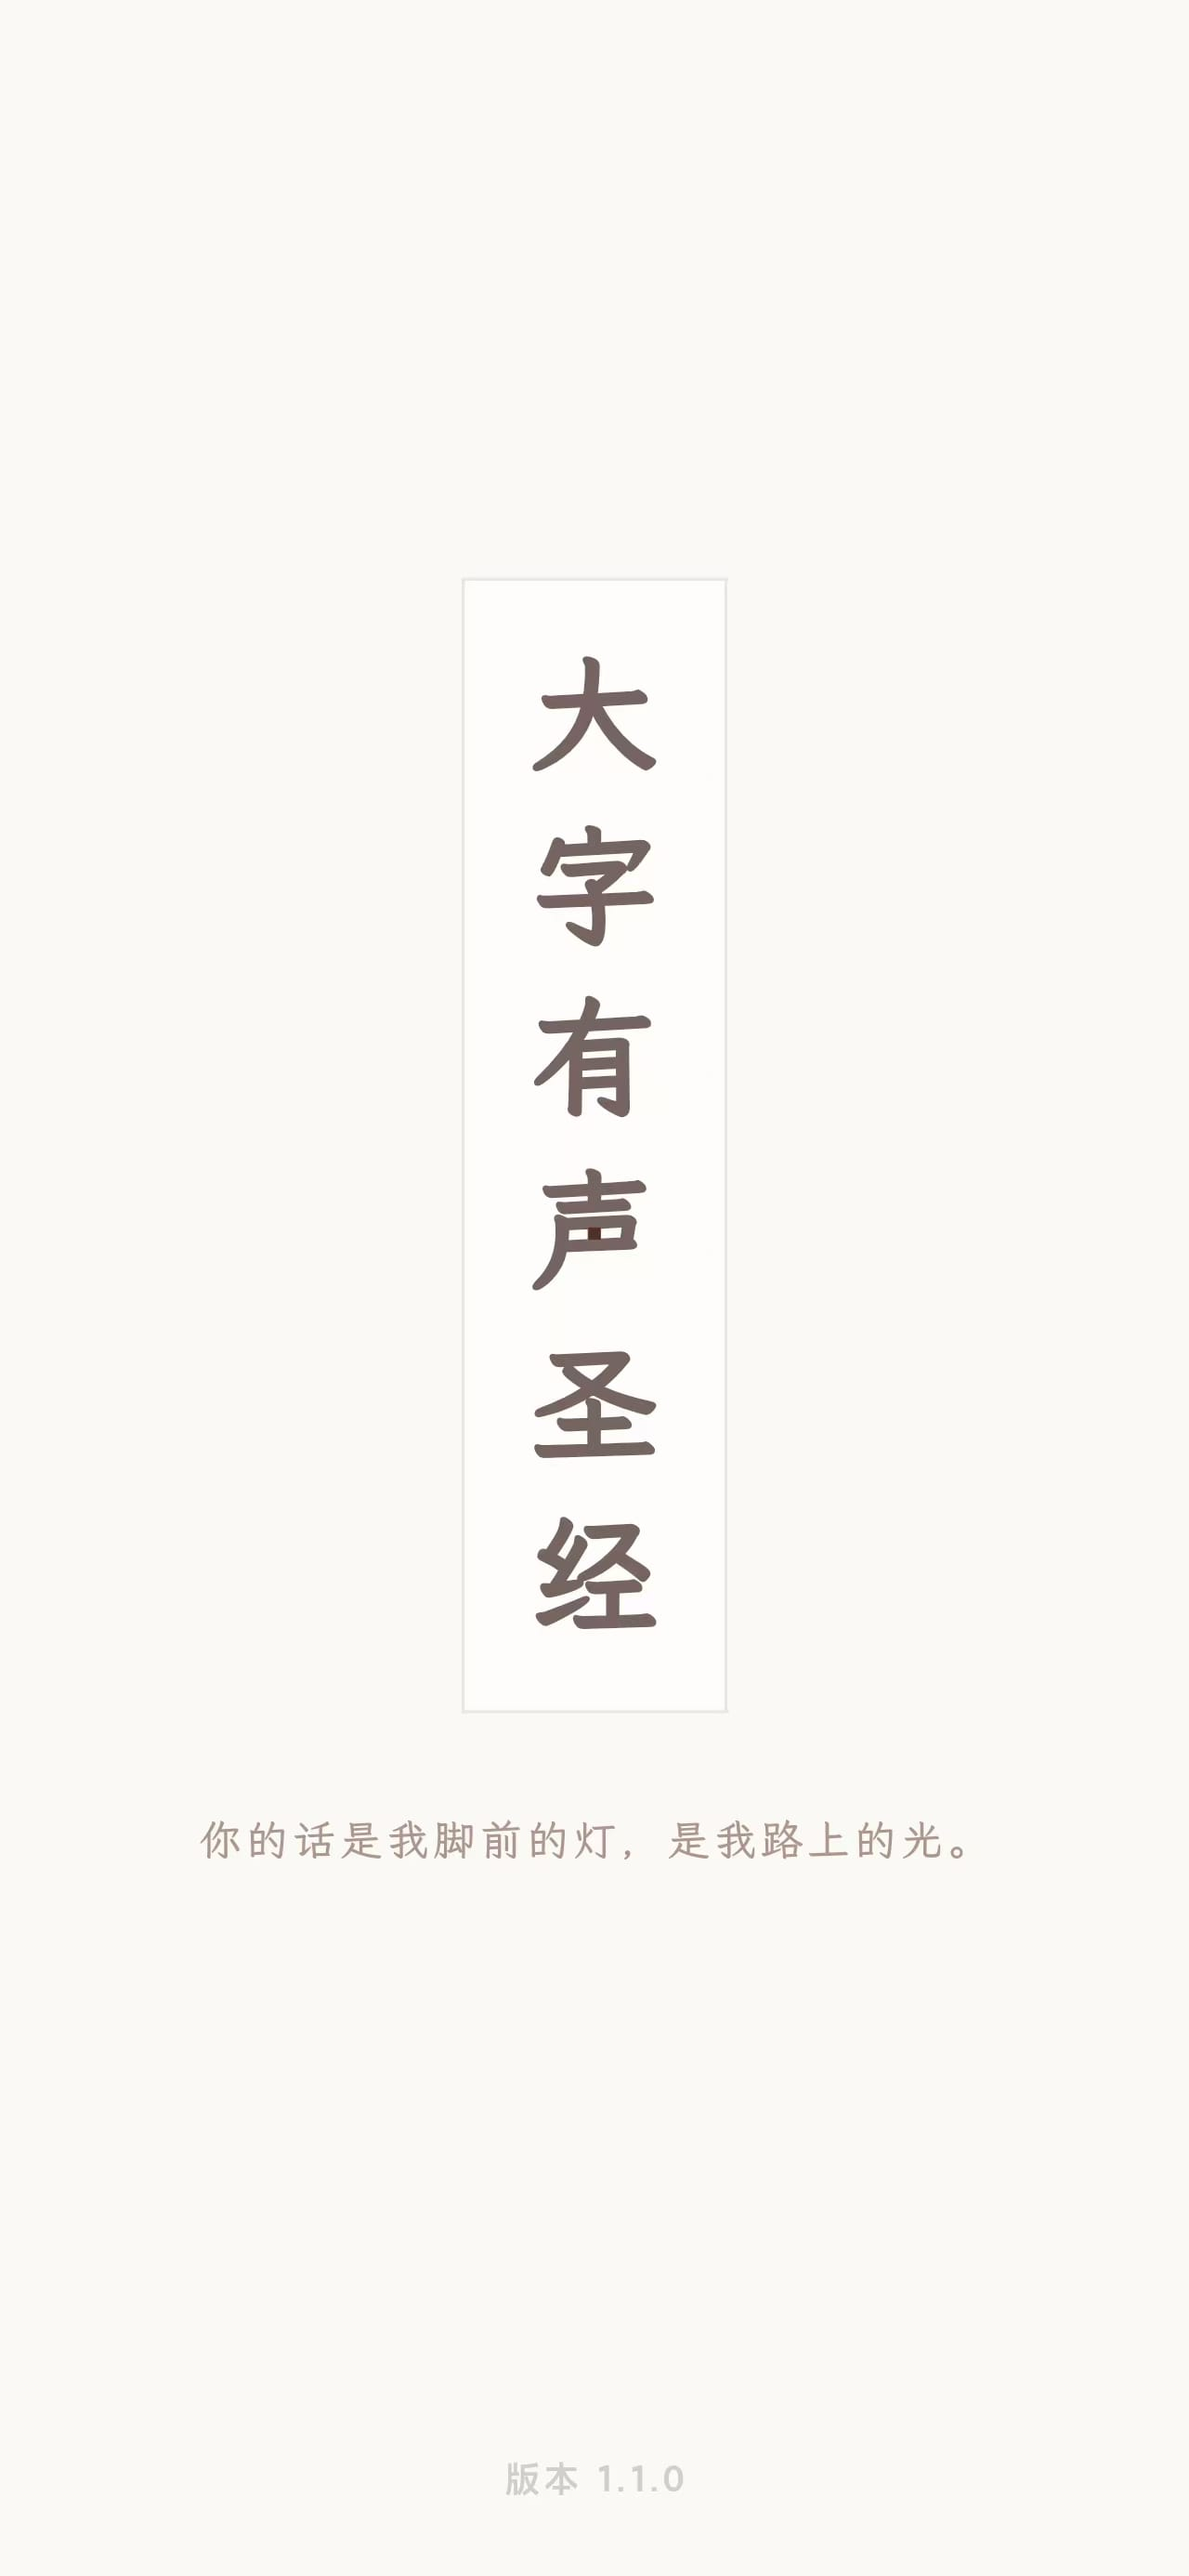
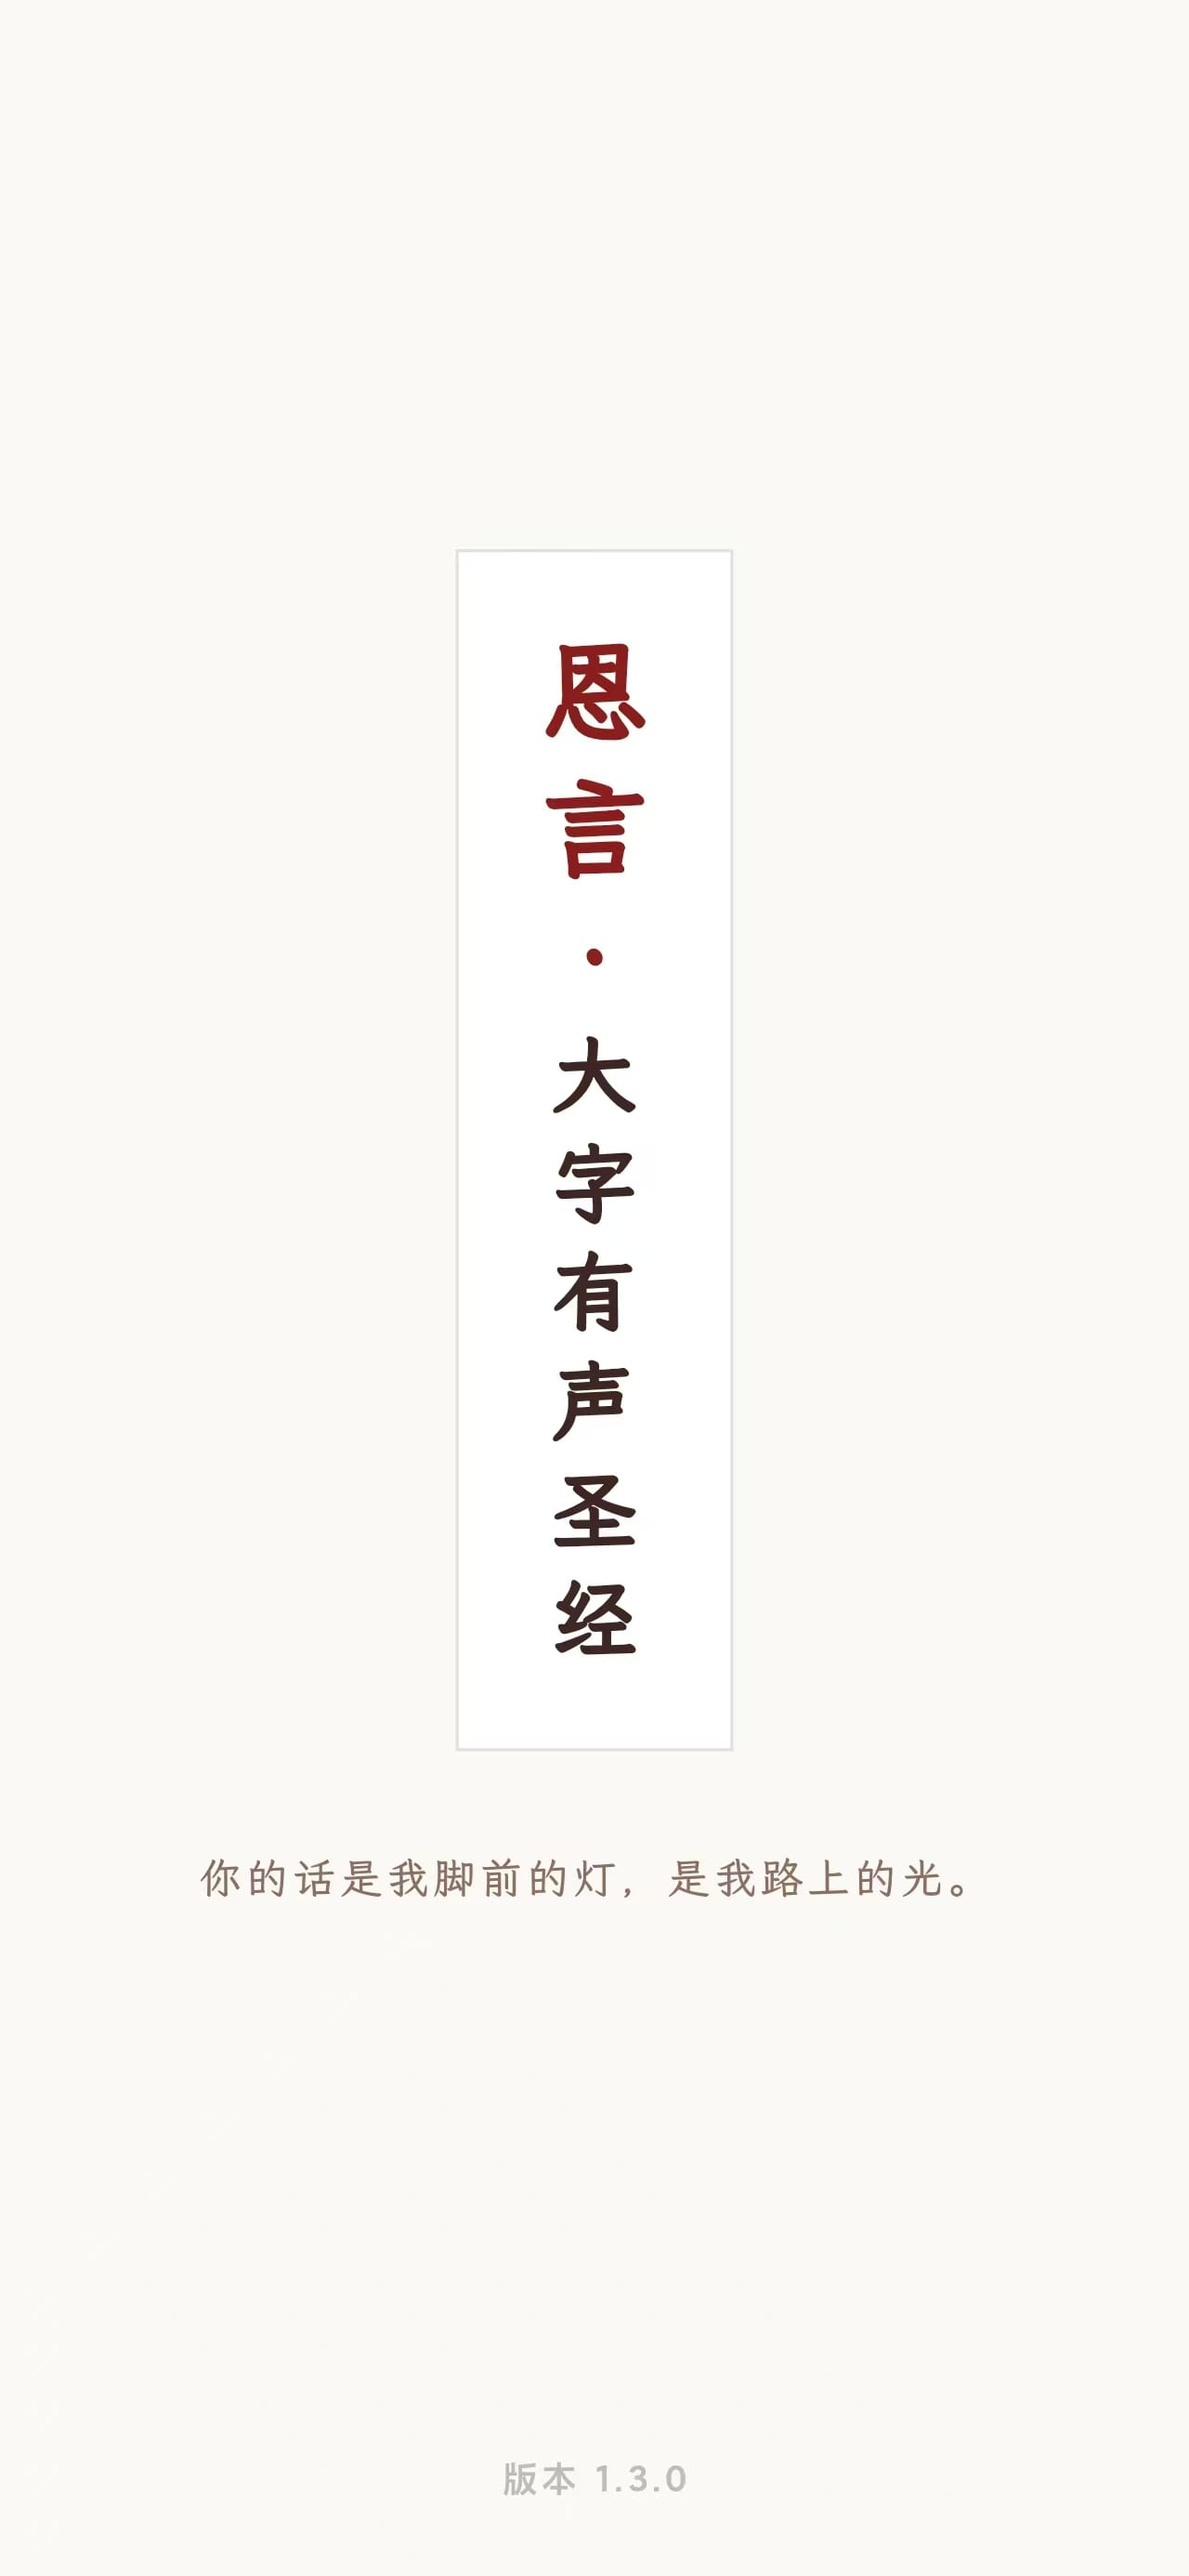
update: 2026-10-25 10:56:50

Changed region(s): [[0.4375, 0.2482, 0.5625, 0.6515], [0.1562, 0.7136, 0.5312, 0.7446], [0.5625, 0.7136, 0.8125, 0.7446]]

diff --git a/source/projects/enyan/README.md b/source/projects/enyan/README.md
@@ -1,7 +1,7 @@
 ---
 title: 恩言 - 大字有声圣经
 layout: project
-version: 1.2.0
+version: 1.3.0
 description: 一款大字有声圣经朗读应用，支持新约旧约全书、繁体中文显示、离线语音朗读，适配 macOS 与 Android 多平台。
 createTime: 2026-02-19 14:00:00
 icon: assets/icon.png
@@ -12,21 +12,22 @@ screenshots:
   - assets/screenshot4.jpg
   - assets/screenshot5.jpg
   - assets/screenshot6.jpg
+  - assets/screenshot7.jpg
 downloads:
   - platform: macOS (Apple Silicon)
-    url: https://gitee.com/rxyk/enyan/releases/download/v1.1.0/enyan-macos-arm64.zip
+    url: https://gitee.com/rxyk/enyan/releases/download/v1.3.0/enyan-macos-arm64.zip
     icon: apple
     size: M1/M2/M3 芯片 Mac
   - platform: macOS (Intel)
-    url: https://gitee.com/rxyk/enyan/releases/download/v1.1.0/enyan-macos-x64.zip
+    url: https://gitee.com/rxyk/enyan/releases/download/v1.3.0/enyan-macos-x64.zip
     icon: apple
     size: Intel 芯片 Mac
   - platform: Android (ARM64)
-    url: https://gitee.com/rxyk/enyan/releases/download/v1.1.0/enyan-android-arm64.apk
+    url: https://gitee.com/rxyk/enyan/releases/download/v1.3.0/enyan-android-arm64.apk
     icon: android
     size: 主流现代安卓手机
   - platform: Android (ARMv7)
-    url: https://gitee.com/rxyk/enyan/releases/download/v1.1.0/enyan-android-armv7.apk
+    url: https://gitee.com/rxyk/enyan/releases/download/v1.3.0/enyan-android-armv7.apk
     icon: android
     size: 老旧安卓手机
 tags: [flutter, rust, 圣经]
@@ -37,6 +38,13 @@ toc: false
 # 恩言（大字有声圣经）
 
 开源仓库：https://github.com/rixingyike/enyan
+
+## v1.3.0 功能更新
+
+- 默认调慢 TTS 朗读的速度。
+- 默认关闭标题栏在向上滚动时自动消失，可以在设置页中打开。
+- 找出上百个生僻字或易错多音字加了拼音注释。
+- 重新设计了播放工具条，使其更加清晰、简洁。
 
 ## v1.2.0 功能更新
 
